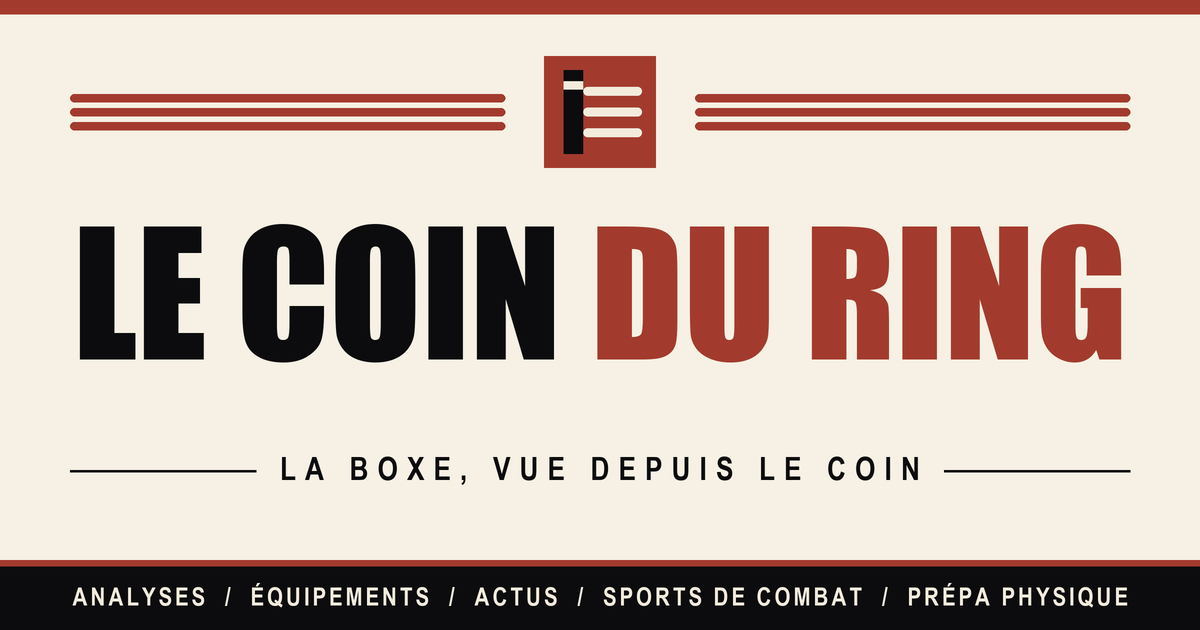
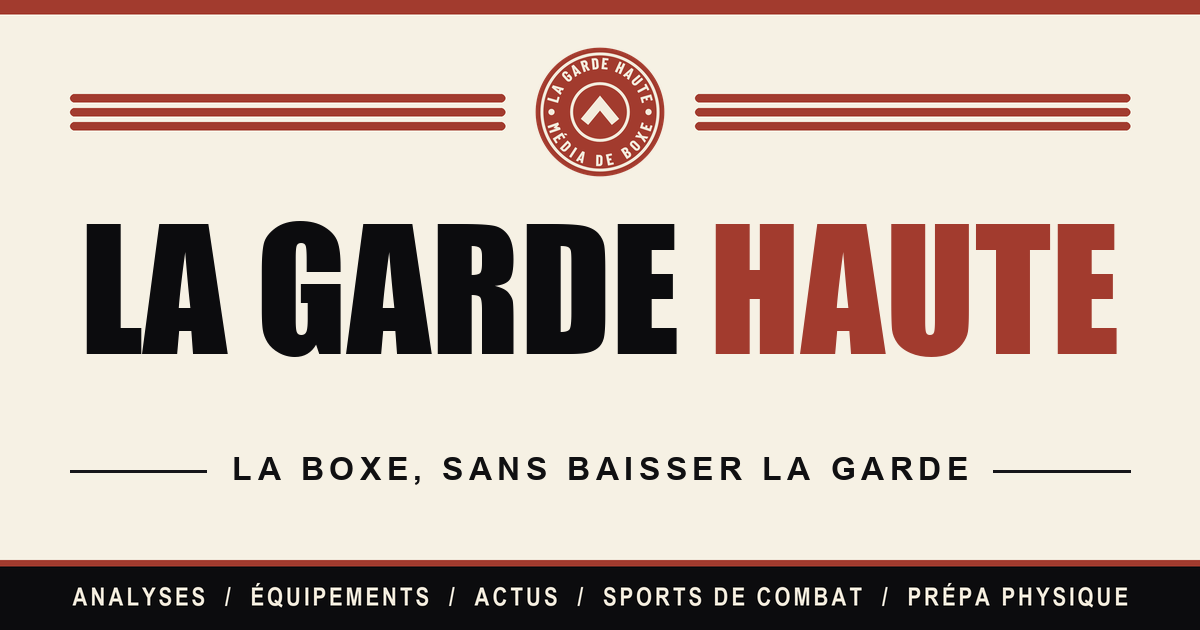
Renommer le site en La Garde Haute (lagardehaute.fr)
Nom, domaine, adresse de contact, signature et pages légales passés à
La Garde Haute. Nouvelle baseline « La boxe, sans baisser la garde ».
Logo en tampon rond (couronne La Garde Haute · Média de boxe, chevron
au centre), favicons sans texte, icône Apple, logo 512 et image de
partage régénérés. Essai avant achat du domaine : rien n'est poussé.

diff --git a/themes/lecoinduring/layouts/partials/logo-mark.html b/themes/lecoinduring/layouts/partials/logo-mark.html
@@ -1,11 +1,37 @@
-{{- /* Logo : un coin de ring (poteau, tendeur et trois cordes). Dessin maison. */ -}}
+{{- /* Logo : tampon rond. Couronne « La Garde Haute · Média de boxe », chevron de garde au centre. Dessin maison.
+     Les lettres sont placées une à une (positions relevées sur Barlow Condensed 700, 4.8) : pas d'id ni de textPath, le partial peut apparaître plusieurs fois par page. */ -}}
 <svg class="logo-mark" viewBox="0 0 40 40" aria-hidden="true">
-    <rect width="40" height="40" fill="#A23B2E"/>
-    <rect x="7" y="5" width="7" height="30" fill="#0C0C0E"/>
-    <rect x="7" y="9" width="7" height="3" fill="#F3ECDD"/>
-    <g fill="#F3ECDD">
-        <rect x="14" y="11" width="21" height="3.2" rx="1.6"/>
-        <rect x="14" y="18.4" width="21" height="3.2" rx="1.6"/>
-        <rect x="14" y="25.8" width="21" height="3.2" rx="1.6"/>
+    <circle cx="20" cy="20" r="19.5" fill="#A23B2E"/>
+    <g fill="none" stroke="#F3ECDD" stroke-width="0.9">
+        <circle cx="20" cy="20" r="17.6"/>
+        <circle cx="20" cy="20" r="8.6"/>
+    </g>
+    <circle cx="5.3" cy="20" r="0.95" fill="#F3ECDD"/>
+    <circle cx="34.7" cy="20" r="0.95" fill="#F3ECDD"/>
+    <polyline points="15.3,23 20,17.3 24.7,23" fill="none" stroke="#F3ECDD" stroke-width="2.9"/>
+    <g font-family="'Barlow Condensed', 'Arial Narrow', sans-serif" font-weight="700" font-size="4.8" fill="#F3ECDD">
+        <text x="7.21" y="17.45" transform="rotate(-74.04 7.21 17.45)">L</text>
+        <text x="8" y="14.88" transform="rotate(-61.81 8 14.88)">A</text>
+        <text x="10.35" y="11.22" transform="rotate(-42.88 10.35 11.22)">G</text>
+        <text x="12.4" y="9.39" transform="rotate(-30.52 12.4 9.39)">A</text>
+        <text x="14.89" y="7.99" transform="rotate(-18.07 14.89 7.99)">R</text>
+        <text x="17.59" y="7.18" transform="rotate(-5.66 17.59 7.18)">D</text>
+        <text x="20.26" y="6.96" transform="rotate(5.77 20.26 6.96)">E</text>
+        <text x="24.35" y="7.69" transform="rotate(24.52 24.35 7.69)">H</text>
+        <text x="26.9" y="8.92" transform="rotate(37 26.9 8.92)">A</text>
+        <text x="29.16" y="10.71" transform="rotate(49.66 29.16 10.71)">U</text>
+        <text x="30.96" y="12.92" transform="rotate(62.06 30.96 12.92)">T</text>
+        <text x="32.21" y="15.42" transform="rotate(74.09 32.21 15.42)">E</text>
+        <text x="4.07" y="24.11" transform="rotate(70.93 4.07 24.11)">M</text>
+        <text x="5.6" y="27.91" transform="rotate(57.53 5.6 27.91)">É</text>
+        <text x="7.67" y="30.87" transform="rotate(44.6 7.67 30.87)">D</text>
+        <text x="10.5" y="33.37" transform="rotate(33.44 10.5 33.37)">I</text>
+        <text x="12.67" y="34.71" transform="rotate(22.45 12.67 34.71)">A</text>
+        <text x="18.62" y="36.37" transform="rotate(0.84 18.62 36.37)">D</text>
+        <text x="22.25" y="36.27" transform="rotate(-11.56 22.25 36.27)">E</text>
+        <text x="27.97" y="34.37" transform="rotate(-32.93 27.97 34.37)">B</text>
+        <text x="31.03" y="32.18" transform="rotate(-46 31.03 32.18)">O</text>
+        <text x="33.48" y="29.4" transform="rotate(-59.08 33.48 29.4)">X</text>
+        <text x="35.26" y="26.09" transform="rotate(-71.89 35.26 26.09)">E</text>
     </g>
 </svg>

diff --git a/themes/lecoinduring/assets/css/main.css b/themes/lecoinduring/assets/css/main.css
@@ -1,5 +1,5 @@
 /* ========================================
-   Le Coin du Ring - variante B "une de journal sportif"
+   La Garde Haute - variante B "une de journal sportif"
    Papier crème, encre noire, filets épais, rouge gant et bleu de l'autre coin.
    Structure magazine : masthead, une + brèves, bandes par rubrique, split, reprises.
    ======================================== */
@@ -406,6 +406,7 @@ section[id] { scroll-margin-top: 64px; }
     .wrap { width: calc(100% - 32px); }
     .masthead { padding-top: 24px; }
     .mast-tagline { letter-spacing: .16em; font-size: .85rem; gap: 12px; }
+    .foot-tagline { letter-spacing: .16em; font-size: .8rem; gap: 12px; }
     .locker { grid-template-columns: 1fr 1fr; }
     .board li { grid-template-columns: 34px 1fr auto; }
     .board li a { font-size: 1.1rem; }
@@ -584,7 +585,7 @@ section[id] { scroll-margin-top: 64px; }
 .author-kicker span::before { left: 0; }
 .author-kicker span::after { right: 0; }
 .author-row { display: grid; grid-template-columns: auto minmax(0, 1fr); gap: 22px; align-items: start; }
-.author-seal .logo-mark { width: 64px; height: 64px; outline: 2px solid var(--encre); outline-offset: 4px; }
+.author-seal .logo-mark { width: 64px; height: 64px; border-radius: 50%; outline: 2px solid var(--encre); outline-offset: 4px; }
 .author-name { font-family: var(--font-display); text-transform: uppercase; font-size: 1.7rem; line-height: 1.05; margin-bottom: 8px; }
 .author-note { font-family: var(--font-serif); font-style: italic; font-size: 1.1rem; line-height: 1.55; color: var(--gris); }
 .author-links { display: flex; flex-wrap: wrap; gap: 6px 20px; margin-top: 14px; padding-top: 12px; border-top: 1px solid rgba(14, 14, 16, .25); }

diff --git a/themes/lecoinduring/layouts/partials/header.html b/themes/lecoinduring/layouts/partials/header.html
@@ -5,8 +5,8 @@
             {{ partial "logo-mark.html" . }}
             <span><i></i><i></i><i></i></span>
         </div>
-        {{ if .IsHome }}<h1 class="wordmark"><a href="{{ "" | relURL }}" aria-label="Le Coin du Ring, accueil">Le Coin <em>du Ring</em></a></h1>{{ else }}<p class="wordmark"><a href="{{ "" | relURL }}" aria-label="Le Coin du Ring, accueil">Le Coin <em>du Ring</em></a></p>{{ end }}
-        <p class="mast-tagline"><span>La boxe, vue depuis le coin</span></p>
+        {{ if .IsHome }}<h1 class="wordmark"><a href="{{ "" | relURL }}" aria-label="La Garde Haute, accueil">La Garde <em>Haute</em></a></h1>{{ else }}<p class="wordmark"><a href="{{ "" | relURL }}" aria-label="La Garde Haute, accueil">La Garde <em>Haute</em></a></p>{{ end }}
+        <p class="mast-tagline"><span>La boxe, sans baisser la garde</span></p>
         <div class="mast-strip">
             <span>Média indépendant</span>
             <time datetime="{{ now.Format "2006-01-02" }}">{{ time.Format ":date_full" now }}</time>
@@ -17,7 +17,7 @@
 
 <div class="navbar{{ if not .IsHome }} navbar-compact{{ end }}">
     <div class="wrap navbar-inner">
-        <a href="{{ "" | relURL }}" class="navbar-brand" aria-label="Le Coin du Ring, accueil">{{ partial "logo-mark.html" . }}<span class="navbar-wordmark">Le Coin <em>du Ring</em></span></a>
+        <a href="{{ "" | relURL }}" class="navbar-brand" aria-label="La Garde Haute, accueil">{{ partial "logo-mark.html" . }}<span class="navbar-wordmark">La Garde <em>Haute</em></span></a>
         <nav class="main-nav" aria-label="Navigation principale">
             {{ $current := .RelPermalink }}
             {{ range site.Menus.main }}

diff --git a/themes/lecoinduring/layouts/blog/single.html b/themes/lecoinduring/layouts/blog/single.html
@@ -57,7 +57,7 @@
                         <div class="author-seal" aria-hidden="true">{{ partial "logo-mark.html" . }}</div>
                         <div class="author-text">
                             <p class="author-name">{{ site.Params.author }}</p>
-                            <p class="author-note">Le Coin du Ring publie des analyses, des tests d'équipement et l'actualité de la boxe, avec une place pour les autres sports de combat et la préparation physique.</p>
+                            <p class="author-note">La Garde Haute publie des analyses, des tests d'équipement et l'actualité de la boxe, avec une place pour les autres sports de combat et la préparation physique.</p>
                             <ul class="author-links">
                                 <li><a href="{{ "a-propos/" | relURL }}">À propos</a></li>
                                 {{ with site.Params.contact_email }}<li><a href="mailto:{{ . }}">Nous écrire</a></li>{{ end }}

diff --git a/themes/lecoinduring/layouts/partials/footer.html b/themes/lecoinduring/layouts/partials/footer.html
@@ -2,8 +2,8 @@
     <div class="wrap">
         <div class="foot-mast">
             <div class="foot-ropes" aria-hidden="true"><i></i><i></i><i></i></div>
-            <p class="foot-wordmark">Le Coin <em>du Ring</em></p>
-            <p class="foot-tagline">La boxe, vue depuis le coin</p>
+            <p class="foot-wordmark">La Garde <em>Haute</em></p>
+            <p class="foot-tagline">La boxe, sans baisser la garde</p>
         </div>
 
         <div class="foot-cols">

diff --git a/content/fr/mentions-legales.md b/content/fr/mentions-legales.md
@@ -1,6 +1,6 @@
 ---
 title: "Mentions légales"
-description: "Mentions légales du Coin du Ring : éditeur, directeur de la publication, hébergement, propriété intellectuelle et droit applicable."
+description: "Mentions légales de La Garde Haute : éditeur, directeur de la publication, hébergement, propriété intellectuelle et droit applicable."
 slug: "mentions-legales"
 noindex: true
 sitemap:
@@ -10,13 +10,13 @@ lastmod: 2026-10-17
 ---
 ## Éditeur du site
 
-Le site Le Coin du Ring est édité par une personne physique exerçant en tant qu'éditeur de contenu indépendant.
+Le site La Garde Haute est édité par une personne physique exerçant en tant qu'éditeur de contenu indépendant.
 
 **Contact éditorial** : {{< contact >}}
 
 ## Directeur de la publication
 
-Le directeur de la publication est le responsable éditorial du site Le Coin du Ring.
+Le directeur de la publication est le responsable éditorial du site La Garde Haute.
 
 ## Hébergement
 
@@ -24,17 +24,17 @@ Le directeur de la publication est le responsable éditorial du site Le Coin du 
 
 ## Nature du site
 
-Le Coin du Ring est un site éditorial indépendant. Il publie des contenus d'information, des analyses, des tests et des comparatifs à visée documentaire. Ces contenus n'ont pas valeur de conseil personnalisé et ne se substituent pas à l'avis d'un professionnel qualifié, notamment d'un médecin du sport ou d'un entraîneur diplômé.
+La Garde Haute est un site éditorial indépendant. Il publie des contenus d'information, des analyses, des tests et des comparatifs à visée documentaire. Ces contenus n'ont pas valeur de conseil personnalisé et ne se substituent pas à l'avis d'un professionnel qualifié, notamment d'un médecin du sport ou d'un entraîneur diplômé.
 
 ## Propriété intellectuelle
 
-L'ensemble des contenus publiés sur Le Coin du Ring (textes, images, éléments graphiques, structure et mise en page) est protégé par le droit d'auteur. Toute reproduction ou représentation, même partielle, est interdite sans autorisation écrite préalable, en dehors des usages permis par la loi, notamment la courte citation accompagnée de la mention de la source et d'un lien vers la page d'origine.
+L'ensemble des contenus publiés sur La Garde Haute (textes, images, éléments graphiques, structure et mise en page) est protégé par le droit d'auteur. Toute reproduction ou représentation, même partielle, est interdite sans autorisation écrite préalable, en dehors des usages permis par la loi, notamment la courte citation accompagnée de la mention de la source et d'un lien vers la page d'origine.
 
 ## Marques et droit de citation
 
 Les marques, dénominations commerciales, logos et noms de produits cités (fabricants d'équipement, organisations, promoteurs, fédérations, chaînes et plateformes de diffusion) restent la propriété de leurs détenteurs respectifs. Les noms de sportifs sont cités à des fins d'information.
 
-Leur mention dans les contenus relève du droit de citation, à des fins d'information éditoriale. Le Coin du Ring est un site indépendant : il n'est affilié à aucune de ces sociétés ou personnes, n'est ni parrainé ni approuvé par elles, et leur mention n'implique aucun lien de partenariat.
+Leur mention dans les contenus relève du droit de citation, à des fins d'information éditoriale. La Garde Haute est un site indépendant : il n'est affilié à aucune de ces sociétés ou personnes, n'est ni parrainé ni approuvé par elles, et leur mention n'implique aucun lien de partenariat.
 
 ## Crédits photographiques et illustrations
 
@@ -44,7 +44,7 @@ Les illustrations du site sont des créations originales. Les autres visuels pro
 
 Le site renvoie vers des ressources externes à titre documentaire. L'éditeur n'exerce aucun contrôle sur ces ressources et décline toute responsabilité quant à leur contenu.
 
-La mise en place d'un lien vers Le Coin du Ring est libre et ne requiert pas d'autorisation préalable, dès lors qu'elle ne porte pas atteinte à l'image du site et n'induit pas de confusion sur l'origine des contenus. L'éditeur se réserve le droit de demander le retrait d'un lien qu'il estime contraire à l'objet du site.
+La mise en place d'un lien vers La Garde Haute est libre et ne requiert pas d'autorisation préalable, dès lors qu'elle ne porte pas atteinte à l'image du site et n'induit pas de confusion sur l'origine des contenus. L'éditeur se réserve le droit de demander le retrait d'un lien qu'il estime contraire à l'objet du site.
 
 ## Signalement
 

diff --git a/content/fr/cgu.md b/content/fr/cgu.md
@@ -1,6 +1,6 @@
 ---
 title: "Conditions générales d'utilisation"
-description: "Conditions générales d'utilisation du Coin du Ring : accès au site, portée des contenus, responsabilité, propriété intellectuelle."
+description: "Conditions générales d'utilisation de La Garde Haute : accès au site, portée des contenus, responsabilité, propriété intellectuelle."
 slug: "cgu"
 noindex: true
 sitemap:
@@ -10,7 +10,7 @@ lastmod: 2026-10-17
 ---
 ## Objet
 
-Les présentes conditions générales d'utilisation définissent les modalités d'accès et d'utilisation du site Le Coin du Ring.
+Les présentes conditions générales d'utilisation définissent les modalités d'accès et d'utilisation du site La Garde Haute.
 
 ## Acceptation
 
@@ -24,7 +24,7 @@ L'éditeur s'efforce de maintenir le site accessible en permanence, sans que cel
 
 ## Nature et portée des contenus
 
-Les contenus publiés sur Le Coin du Ring ont une finalité d'information générale. Ils sont rédigés avec soin, à partir de sources que l'éditeur estime fiables, et actualisés selon les moyens disponibles.
+Les contenus publiés sur La Garde Haute ont une finalité d'information générale. Ils sont rédigés avec soin, à partir de sources que l'éditeur estime fiables, et actualisés selon les moyens disponibles.
 
 Ils ne constituent pas un conseil personnalisé et ne remplacent pas l'avis d'un professionnel qualifié. Les informations relatives à des produits, des services, des tarifs, des disponibilités, des dates ou des affiches de combats sont données à titre indicatif et peuvent évoluer indépendamment de la volonté de l'éditeur. Il est recommandé de les vérifier auprès de la source concernée avant toute décision.
 
@@ -52,7 +52,7 @@ L'ensemble des éléments composant le site est protégé par le droit de la pro
 
 Le site propose des liens vers des ressources externes, à titre documentaire. L'éditeur n'exerce aucun contrôle sur leur contenu, leurs conditions d'utilisation ou leurs pratiques en matière de données personnelles, et décline toute responsabilité à cet égard.
 
-La création d'un lien vers Le Coin du Ring est libre et ne requiert pas d'autorisation préalable, dès lors qu'elle ne porte pas atteinte à l'image du site et n'induit pas de confusion sur l'origine des contenus.
+La création d'un lien vers La Garde Haute est libre et ne requiert pas d'autorisation préalable, dès lors qu'elle ne porte pas atteinte à l'image du site et n'induit pas de confusion sur l'origine des contenus.
 
 ## Signalement d'un contenu
 

diff --git a/content/fr/a-propos.md b/content/fr/a-propos.md
@@ -1,9 +1,9 @@
 ---
 title: "À propos"
-description: "Le Coin du Ring est un média francophone sur la boxe : analyses, équipements et actus, avec une place pour les autres sports de combat et la préparation physique."
+description: "La Garde Haute est un média francophone sur la boxe : analyses, équipements et actus, avec une place pour les autres sports de combat et la préparation physique."
 ---
 
-Le Coin du Ring est un média francophone consacré à la **boxe**. Il est organisé comme un ring : le coin rouge pour la boxe elle-même, le coin bleu pour tout ce qui l'entoure, c'est-à-dire les autres sports de combat et la préparation physique.
+La Garde Haute est un média francophone consacré à la **boxe**. Il est organisé comme un ring : le coin rouge pour la boxe elle-même, le coin bleu pour tout ce qui l'entoure, c'est-à-dire les autres sports de combat et la préparation physique.
 
 ## Ce qu'on y trouve
 
@@ -14,11 +14,11 @@ Le Coin du Ring est un média francophone consacré à la **boxe**. Il est organ
 
 ## Indépendance
 
-Le Coin du Ring ne contient actuellement ni lien affilié ni contenu sponsorisé.
+La Garde Haute ne contient actuellement ni lien affilié ni contenu sponsorisé.
 
 ## Marques citées
 
-Les marques, organisations et noms de produits cités dans les contenus appartiennent à leurs détenteurs respectifs. Le Coin du Ring est un site indépendant, non affilié à ces sociétés. Le détail figure dans les [mentions légales]({{< relref "mentions-legales" >}}).
+Les marques, organisations et noms de produits cités dans les contenus appartiennent à leurs détenteurs respectifs. La Garde Haute est un site indépendant, non affilié à ces sociétés. Le détail figure dans les [mentions légales]({{< relref "mentions-legales" >}}).
 
 ## Sport et santé
 

diff --git a/content/fr/politique-de-confidentialite.md b/content/fr/politique-de-confidentialite.md
@@ -1,6 +1,6 @@
 ---
 title: "Politique de confidentialité"
-description: "Politique de confidentialité du Coin du Ring : données collectées, finalités, durées de conservation, cookies et droits RGPD."
+description: "Politique de confidentialité de La Garde Haute : données collectées, finalités, durées de conservation, cookies et droits RGPD."
 slug: "politique-de-confidentialite"
 noindex: true
 sitemap:
@@ -10,11 +10,11 @@ lastmod: 2026-10-17
 ---
 ## Responsable du traitement
 
-Le responsable du traitement des données collectées sur Le Coin du Ring est l'éditeur du site, joignable à l'adresse {{< contact >}}. Toute question relative à la protection des données peut lui être adressée directement.
+Le responsable du traitement des données collectées sur La Garde Haute est l'éditeur du site, joignable à l'adresse {{< contact >}}. Toute question relative à la protection des données peut lui être adressée directement.
 
 ## Principe de collecte minimale
 
-Le Coin du Ring ne recueille que les données strictement nécessaires au fonctionnement du site et au traitement des demandes reçues. Aucune donnée n'est vendue, louée ni cédée à des tiers à des fins commerciales.
+La Garde Haute ne recueille que les données strictement nécessaires au fonctionnement du site et au traitement des demandes reçues. Aucune donnée n'est vendue, louée ni cédée à des tiers à des fins commerciales.
 
 ## Données collectées
 

diff --git a/content/fr/blog/_index.md b/content/fr/blog/_index.md
@@ -1,6 +1,6 @@
 ---
 title: "Le blog"
-description: "Tous les articles du Coin du Ring : analyses, équipements, actus, sports de combat et prépa physique."
-tagline: "Tous les articles du Coin du Ring, du plus récent au plus ancien."
+description: "Tous les articles de La Garde Haute : analyses, équipements, actus, sports de combat et prépa physique."
+tagline: "Tous les articles de La Garde Haute, du plus récent au plus ancien."
 corner: "rouge"
 ---

diff --git a/content/fr/_index.md b/content/fr/_index.md
@@ -1,4 +1,4 @@
 ---
-title: "Le Coin du Ring"
+title: "La Garde Haute"
 description: "Le média de la boxe : analyses, équipements et actualités. Et aussi les autres sports de combat et la préparation physique."
 ---

diff --git a/content/fr/plan-du-site.md b/content/fr/plan-du-site.md
@@ -1,5 +1,5 @@
 ---
 title: "Plan du site"
-description: "Toutes les pages et tous les articles du Coin du Ring."
+description: "Toutes les pages et tous les articles de La Garde Haute."
 layout: "sitemap-html"
 ---
